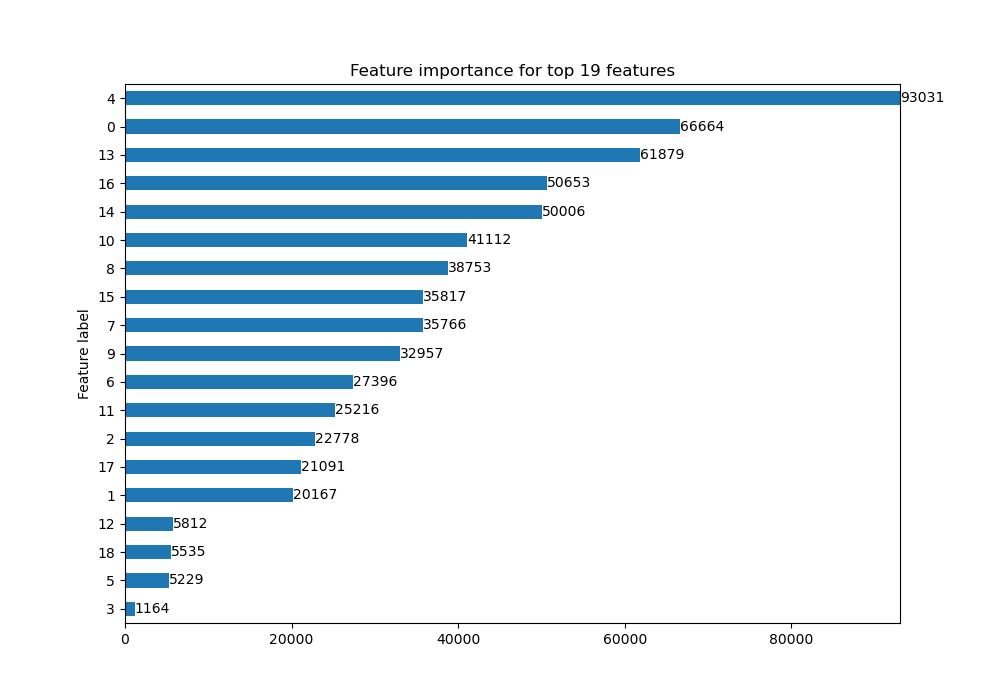
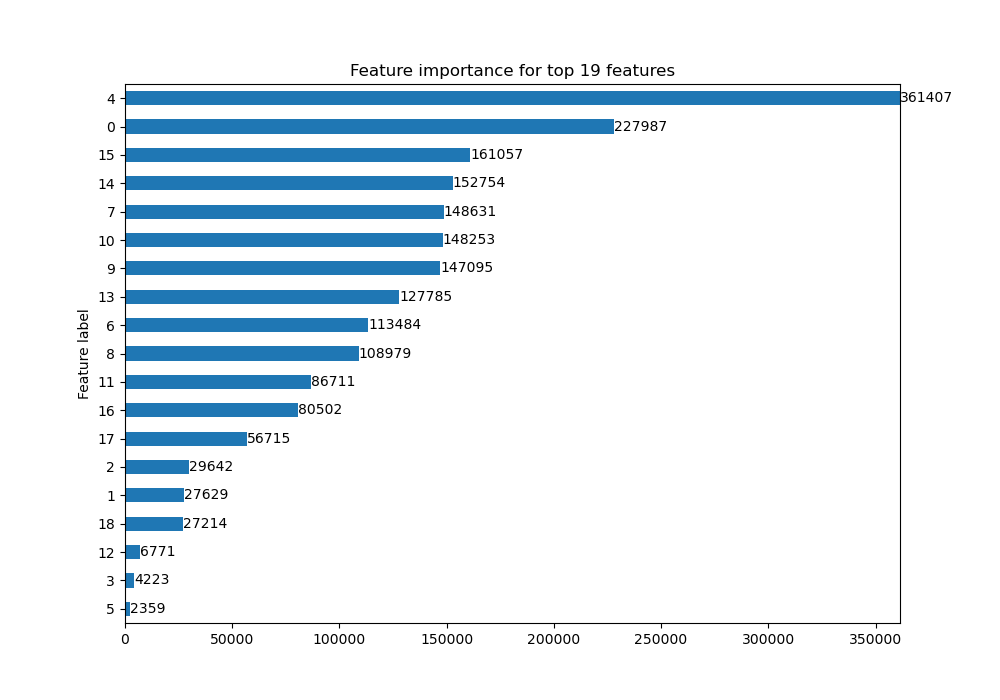
working

diff --git a/main.py b/main.py
@@ -38,21 +38,7 @@ print('Number of NODES features: ', training_datataset.num_features)
 print('Number of EDGES features: ', training_datataset.num_edge_features)
 
 finish_time_preprocessing = time.time()
-time_preprocessing = (finish_time_preprocessing - start_time) / 60 #TODO
-
-
-# Dataset Split Percent:
-#training_percentage = 0.98
-#validation_percentage = 0.01
-#test_percentage = 0.01
-
-#n_train = int(len(training_datataset) * training_percentage)
-##n_test = len(training_datataset) - n_train - n_val
-
-# Define objetos de conjunto de entrenamiento, validación y prueba de PyTorch:
-#train_set, val_set, test_set = torch.utils.data.random_split(training_datataset,
-#                                                             [n_train, n_val, n_test],
-#                                                             generator=torch.Generator().manual_seed(42))
+time_preprocessing = (finish_time_preprocessing - start_time) / 60 
 
 # Define dataloaders para conjuntos de entrenamiento, validación y prueba:
 batch_size = 100  
@@ -93,12 +79,6 @@ model = GCN_Geo(
                 hidden_dim_fcn_3,
             ).to(device)
 
-# /////////////////// Transfer Learning /////////////////////////
-# Especifica la ruta del archivo donde se guardaron los pesos del modelo previamente
-#weights_path = 'SCX_best_model_weights.pth'
-
-# Carga los pesos en tu modelo
-#model.load_state_dict(torch.load(weights_path))
 
 
 #/////////////////// Training /////////////////////////////
@@ -116,7 +96,7 @@ val_losses = []
 best_val_loss = float('inf')  # infinito
 
 start_time_training = time.time()
-number_of_epochs = 100
+number_of_epochs = 3
 
 for epoch in range(1, number_of_epochs+1):
     train_loss = train(model, device, train_dataloader, optimizer, epoch, type_dataset='training')
@@ -359,23 +339,21 @@ data = {
 df = pd.DataFrame(data)
 df.to_csv('results/results_training_validation_test.csv', index=False)
 
-
- 
 #-------------------------------------///////// Explainer ////// -------------------------------------------
 
 explainer = Explainer(
                     model=model,
                     algorithm=CaptumExplainer('IntegratedGradients'),
-                    explanation_type='phenomenon', #Explains the model prediction.
+                    explanation_type='model', #Explains the model prediction.
                     model_config=dict(
-                        mode='regression', #or binary_classification?
+                        mode='regression', #or 
                         task_level='node', #ok
-                        return_type='raw', #ok, probs, log_probs
+                        return_type='raw', #ok
                     ),
-                    node_mask_type='attributes', #None: Will not apply any mask on nodes. "object": Will mask each node."common_attributes": Will mask each feature."attributes": Will mask each feature across all nodes
+                    node_mask_type='attributes', #"attributes": Will mask each feature across all nodes
                     edge_mask_type=None,
                     threshold_config=dict(
-                        threshold_type='hard', #The type of threshold to apply. The possible values are: None, hard,topk, topk_hard
+                        threshold_type='hard', #The type of threshold to apply. 
                         value = 0  #The value to use when thresholding.
                     ),
                     )
@@ -410,11 +388,8 @@ for batch in train_dataloader:
                         )
     
     path = 'IntegratedGradients_feature_importance.png'
-    explanation.visualize_feature_importance(path, top_k=19) #Creates a bar plot of the node feature importances by summing up the node mask across all nodes.
+    explanation.visualize_feature_importance(path, top_k = node_features_dim) 
     finish_time = time.time()
     time_prediction = (finish_time- start_time) / 60
     print(time_prediction , 'min')
 
-
-
-# %%
